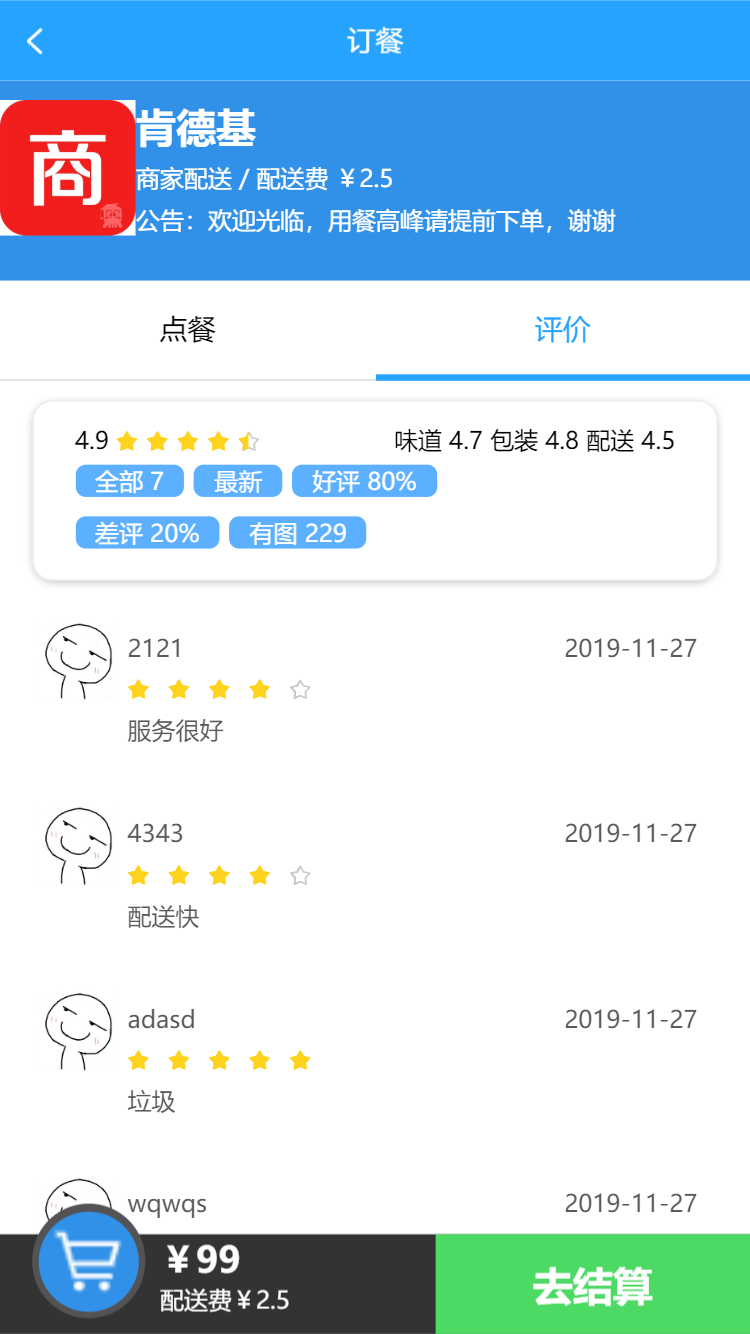
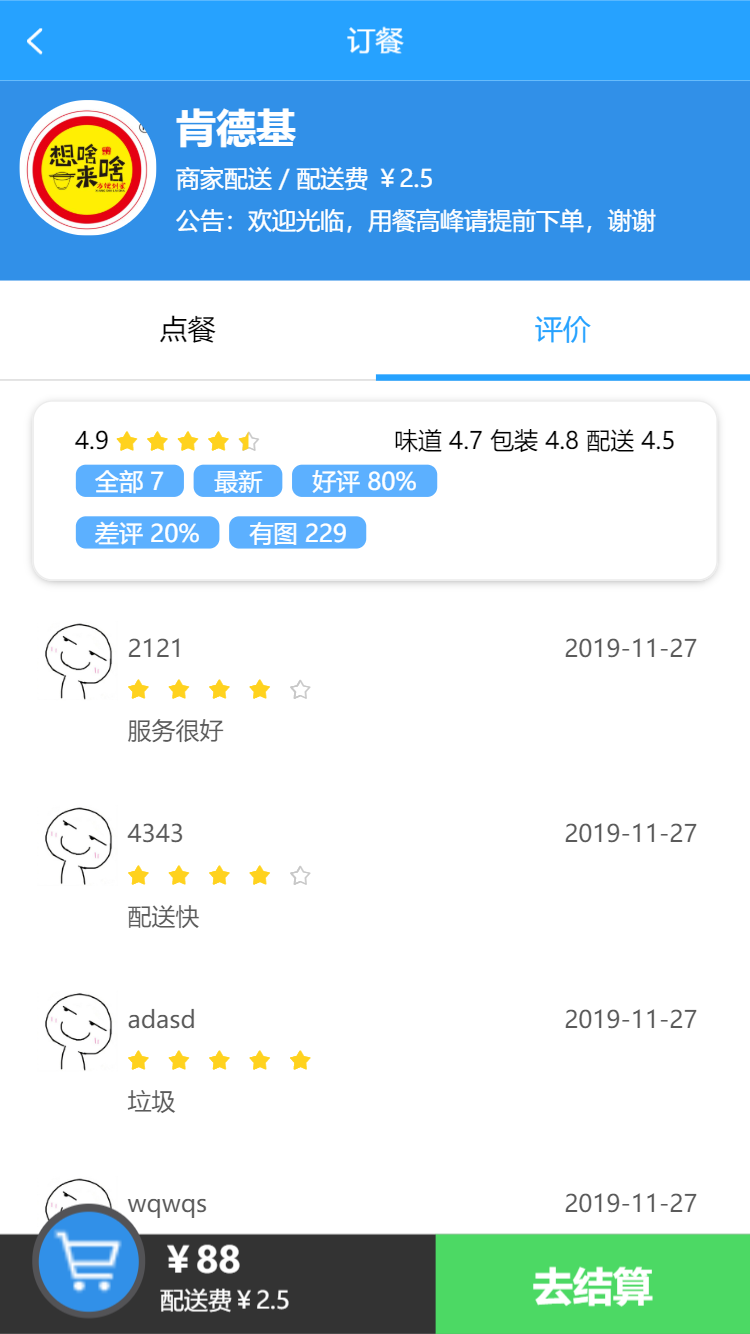
commit

Changed region(s): [[0.0, 0.0615, 0.8893, 0.1844], [0.2453, 0.922, 0.3373, 0.9528]]

diff --git a/src/views/orders/orders.vue b/src/views/orders/orders.vue
@@ -5,11 +5,11 @@
         <div v-for="(item, index) in orders" :key="index" class="order_container">
             <div class="orders_info">
                 <div class="">
-                    <span> <img src="../../images/商圈.png" alt=""></span>
+                    <span> <img :src="shop_name[index].img" alt=""></span>
                 </div>
                 <div class="title_time">
                     <span>
-                        <section class="title"> {{ shop_name[index] }}
+                        <section class="title"> {{ shop_name[index].name }}
                             <van-icon color="grey" style="vertical-align: middle;" size="12px" name="arrow" />
                         </section>
                         <section class="time">2019-02-02</section>
@@ -37,7 +37,7 @@
         data() {
             return {
                 orders: '',
-                shop_name: []
+                shop_name: [],
             }
         },
 
@@ -53,6 +53,7 @@
                 console.log(localStorage.getItem("user"));
                 this.axios.get(this.$Api.queryorders + JSON.parse(localStorage.getItem("user"))).then(body => {
                     this.orders = body.data;
+                    console.log(this.orders);
                     // this.axios.get(this.$Api.getshoplistbyid + this.orders.)
                     this.orders.some(item => {
                         this.getshopname(item.shop_id);
@@ -63,7 +64,8 @@
 
             getshopname(id) {
                 this.axios.get(this.$Api.getshoplistbyid + id).then(body => {
-                    this.shop_name.push(body.data.name);
+                    this.shop_name.push(body.data)
+
                 })
             }
         },
@@ -121,8 +123,8 @@
                 vertical-align: middle;
 
                 img {
-                    width: 40px;
-                    height: 40px;
+                    width: 45px;
+                    height: 45px;
                 }
 
                 span {

diff --git a/src/views/shop_deatil/shop_deatil.vue b/src/views/shop_deatil/shop_deatil.vue
@@ -1,7 +1,7 @@
 /<template>
     <div>
         <div class="shop_title">
-            <span class="shop_img"><img src="../../images/商圈.png" alt=""></span>
+            <span class="shop_img"><img :src="shopinfo.img" alt=""></span>
             <span class="shop_info">
                 <h2>{{ shopinfo.name }}</h2>
                 <p>商家配送 / 配送费 ￥{{ shopinfo.decost }}</p>
@@ -35,7 +35,7 @@
                                 <li @click="toFoodDeatil(foodList.fid)" v-for="foodList in item.foodLists"
                                     :key="foodList.fid" class="food-item">
                                     <div class="icon">
-                                        <img width="70px" height="70px" src="../../images/商圈.png" alt="">
+                                        <img width="70px" height="70px" :src="foodList.img" alt="">
                                     </div>
                                     <div class="info-content">
                                         <h2 class="food-name">{{ foodList.fname }}</h2>
@@ -376,6 +376,7 @@
             getshoplist() {
                 this.axios.get(this.$Api.getshoplistbyid + this.$route.query.shopid).then(body => {
                     this.shopinfo = body.data
+                    console.log(this.shopinfo);
                 })
             },
 
@@ -416,6 +417,8 @@
             img {
                 width: 68px;
                 height: 68px;
+                border-radius: 50%;
+                padding: 0 10px;
             }
         }
 
@@ -541,7 +544,7 @@
 
                         .info-content {
                             flex: 8;
-                            padding: 0 2px;
+                            padding: 0 8px;
 
                             .food-name {
                                 margin-bottom: 2px;
@@ -601,7 +604,10 @@
 
     .mint-tab-container-item {
 
+
         padding-bottom: 50px;
+
+
 
         .comment_info {
             padding: 10px 20px;

diff --git a/src/views/shop_deatil/fooddeatile.vue b/src/views/shop_deatil/fooddeatile.vue
@@ -1,7 +1,7 @@
 <template>
     <div class="container">
         <div class="img">
-            <img src="./images/商圈.png" alt="">
+            <img :src="foodinfo.img" alt="foodinfo.img">
         </div>
         <div class="food_warp">
             <h2 class="food_title">
@@ -56,7 +56,7 @@
                     })
             },
 
-            
+
         },
 
 
@@ -66,9 +66,15 @@
 <style lang="scss" scoped>
     .container {
         .img {
+            width: 100vw;
+
             img {
-                width: 100%;
+                // width: 100%;
+                width: 95vw;
                 height: 300px;
+                padding: 5px 10px;
+                border-radius: 15px;
+
             }
         }
 
@@ -78,25 +84,29 @@
 
             // background-color: #F7F7F7;
             .food_title {
+                font-size: 24px;
                 padding: 5px 0;
             }
 
             .food_rate {
-                font-size: 12px;
+                font-size: 10px;
                 color: grey;
             }
 
             .food_price {
+                margin-top: 5px;
                 font-weight: 600;
                 color: red;
-                font-size: 24px;
+                font-size: 20px;
             }
         }
 
         .food_infowarp {
             padding: 10px;
 
-            .food_infotitle {}
+            .food_infotitle {
+                
+            }
 
             .food_info {}
         }

diff --git a/src/views/orders/placeorder.vue b/src/views/orders/placeorder.vue
@@ -34,7 +34,7 @@
 
         <div class="shoptitle">
             <span>
-                <img src="../../images/商圈 copy.png" alt="">
+                <img :src="shopinfo.img" alt="">
             </span>
             <span>{{ shopinfo.name }}</span>
         </div>
@@ -237,7 +237,7 @@
 
 
     .shoptitle {
-        font-size: 21px;
+        font-size: 18px;
         margin-top: 10px;
         border-top: 1px solid #dfdfdf;
         border-bottom: 1px solid #dfdfdf;
@@ -249,8 +249,9 @@
 
         span {
             img {
-                width: 28px;
-                height: 28px;
+                width: 35px;
+                height: 35px;
+                padding-right: 10px;
             }
         }
     }

diff --git a/src/views/shopinfo/shoplist.vue b/src/views/shopinfo/shoplist.vue
@@ -4,7 +4,7 @@
         <div class="shop_info">
             <ul>
                 <li v-for="item in shoplist" :key="item.id" @click="to_shop(item.shopid)">
-                    <span><img src="../../images/商圈.png" alt=""></span>
+                    <span><img :src="item.img" alt=""></span>
                     <span class="info_title">
                         <h4>{{ item.name }}</h4>
                         <p><span>
@@ -51,6 +51,7 @@
             getshoplist() {
                 this.axios.get(this.$Api.getshoplist).then(body => {
                     this.shoplist = body.data;
+                    console.log(this.shoplist);
                 })
             }
         },

diff --git a/README.md b/README.md
@@ -30,6 +30,12 @@
 ### 评论列表
 <img src="https://raw.githubusercontent.com/ccKwon/vue-elm/master/screenShot/comment.png" width="365" height="619"/>
 
+### 订单列表
+<img src="https://raw.githubusercontent.com/ccKwon/vue-elm/master/screenShot/ordersList.png" width="365" height="619"/>
+
+### 下单页面
+<img src="https://raw.githubusercontent.com/ccKwon/vue-elm/master/screenShot/orderPay.png" width="365" height="619"/>
+
 ### 商铺购物车
 <img src="https://raw.githubusercontent.com/ccKwon/vue-elm/master/screenShot/shopInfo2.png" width="365" height="619"/>
 
